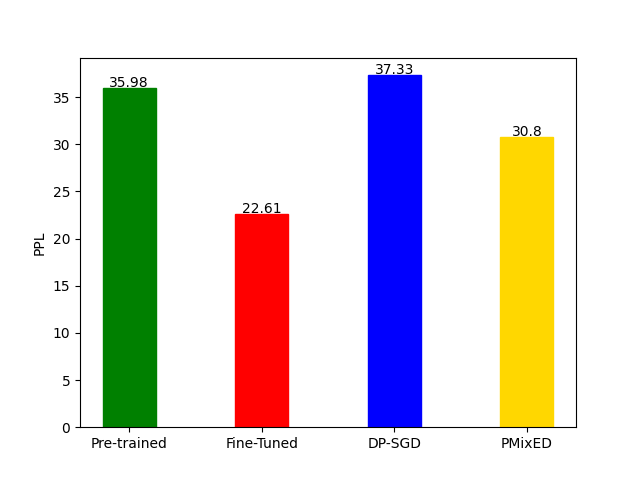
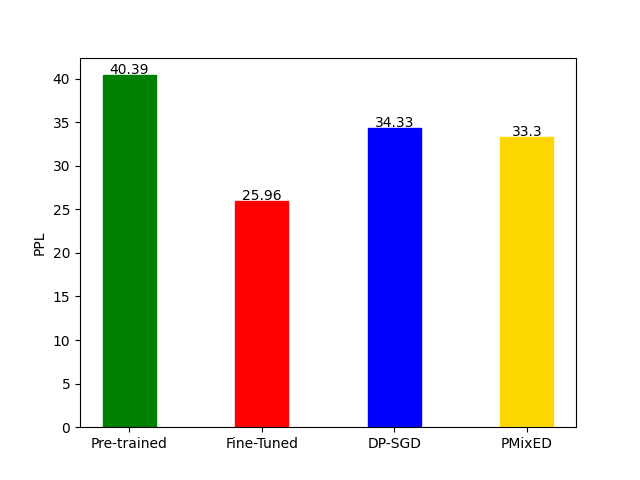
Update hyperparameter experiments

diff --git a/ensemble.py b/ensemble.py
@@ -38,12 +38,12 @@ class Ensemble():
             a = 1 
             while self.subsample_eps(a * self.eps / self.q_budget, self.p, self.alpha) < self.eps / self.q_budget:
                 a += 1
-            print("a value", (a-1))
+            #print("a value", (a-1))
             self.eps = self.eps * (a-1)
 
         self.target = np.log(self.num_ensemble * np.exp((self.alpha-1) * alpha * self.eps / self.q_budget)
                         + 1 - self.num_ensemble) / (4*(self.alpha - 1))
-        print(f"Target value {self.target:2f}")
+        #print(f"Target value {self.target:2f}")
         self.lora_ensemble = 0 
         for i, dir in enumerate(self.model_dirs):
             if i == 0:
@@ -78,9 +78,9 @@ class Ensemble():
         for i in range(self.num_ensemble):
             self.lora_ensemble.set_adapter(f"lora-{i}")
             logits = self.lora_ensemble(context).logits.squeeze().cpu()
-            output_dists.append(F.softmax(logits))
+            output_dists.append(F.softmax(logits, dim=1))
         logits = self.pub_model(context).logits.squeeze().cpu()
-        output_dists.append(F.softmax(logits))
+        output_dists.append(F.softmax(logits, dim=1))
         return output_dists 
 
     def top_p_filtering(self, logits, p, filter_value=-float("Inf")):

diff --git a/prediction_experiments.py b/prediction_experiments.py
@@ -138,8 +138,8 @@ if __name__ == "__main__":
     parser.add_argument("--device", type=str, default="cuda:6")
     parser.add_argument("--seq_length", type=int, default=512)
     parser.add_argument("--query_budget", type=int, default=1024)
-    parser.add_argument("--epsilon", type=float, default=1.0)
-    parser.add_argument("--alpha", type=int, default=2)
+    parser.add_argument("--epsilon", type=float, default=8.0)
+    parser.add_argument("--alpha", type=int, default=3)
     parser.add_argument("--delta", type=float, default=1e-5)
     parser.add_argument("--temperature", type=float, default=1.0)
     parser.add_argument("--p", type=float, default=1.0)
@@ -160,7 +160,7 @@ if __name__ == "__main__":
         dpsgd_ppl_list.append(dpsgd_ppl)
         ensemble_ppl_list.append(ensemble_ppl)
 
-    print(f"{np.mean(pub_ppl_list):.2f}")
-    print(f"{np.mean(ft_ppl_list):.2f}")
-    print(f"{np.mean(dpsgd_ppl_list):.2f}")
-    print(f"{np.mean(ensemble_ppl_list):.2f}")
+    print(f"Perplexity score of public model: {np.mean(pub_ppl_list):.2f}")
+    print(f"Perplexity score of fine-tuned model: {np.mean(ft_ppl_list):.2f}")
+    print(f"Perplexity score of DP-SGD: {np.mean(dpsgd_ppl_list):.2f}")
+    print(f"Perplexity score of PMixED: {np.mean(ensemble_ppl_list):.2f}")

diff --git a/hyperparameter_experiments.py b/hyperparameter_experiments.py
@@ -9,15 +9,15 @@ parameters = ["epsilon", 'num_ensemble', 'query_budget', 'alpha', 'p', 'ppl']
 
 epsilons = [2, 4, 6, 8, 10]
 num_ensembles = [8, 16, 32, 64]
-query_budgets = [512, 1024, 2048]
+query_budgets = [512, 1024, 2048, 4096]
 alphas = [3, 4, 5, 6, 7]
 p_s = [1/16, 1/8, 1/4, 1/2]
 
 default_epsilon = 8
 default_query_budget = 1024 
-default_num_ensembles=16
-default_p = 1/8
-default_iters=5
+default_num_ensembles = 16
+default_p = 1/16
+default_iters = 10
 delta = 1e-5
 
 #results = []
@@ -57,6 +57,7 @@ with open(results_file, 'w') as f:
     default_alpha = 3
 
     for ensemble in tqdm.tqdm(num_ensembles, desc="Ensemble"):
+        p_s = 1/8 if ensemble == 8 else 1/16
         command = create_command(default_epsilon, default_query_budget, default_alpha,
                                 ensemble, default_p, default_iters)
         result = subprocess.run(command, stdout=subprocess.PIPE)
